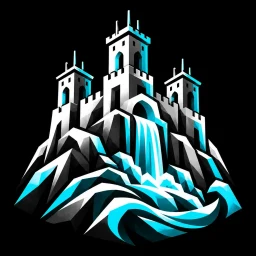
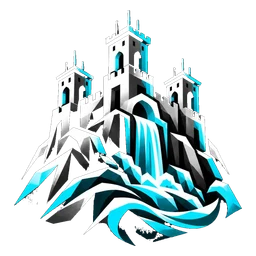
Tema chiaro di partenza (scuro se il telefono è scuro): emergenza, loghi dei castelli su tessera, benvenuto e icone sistemati per il chiaro
Claude-Session: https://claude.ai/code/session_01NPons2JwHMxEPqWQkYyk7h

diff --git a/app/globals.css b/app/globals.css
@@ -7,7 +7,7 @@
 
 @layer base {
   /* ——— Gettoni ———
-     Tema scuro predefinito (zinc + ottone); chiaro solo se il telefono è in modalità chiara. */
+     Tema chiaro di partenza; scuro (zinc + ottone) se il telefono è in modalità scura (scelta di Alex, 14/10/2026). */
   :root {
     --notte: #09090B;
     --azzurro: #5EB6E4;
@@ -23,24 +23,25 @@
     /* Ottone pieno, con appena un filo di luce in alto: niente effetto "metallo lucido" */
     --ottone-metallo: linear-gradient(180deg, #D4B26C 0%, #C9A45C 100%);
 
-    --sfondo: #09090B;          /* zinc-950 */
-    --superficie: #18181B;      /* zinc-900 */
-    --superficie-2: #27272A;    /* zinc-800 */
-    --testo: #FAFAFA;           /* zinc-50 */
-    --testo-2: #A1A1AA;         /* zinc-400 */
-    --linea: rgba(255, 255, 255, 0.08);
-    --accento: #D4B06A;
-    --accento-tenue: rgba(201, 164, 92, 0.14);
-    --su-accento: #09090B;      /* testo sopra l'ottone */
-    --pannello: #141416;        /* pannelli "strumento" */
+    --sfondo: #FAFAFA;        /* zinc-50 */
+    --superficie: #F4F4F5;    /* zinc-100 */
+    --superficie-2: #FFFFFF;
+    --testo: #09090B;
+    --testo-2: #52525B;       /* zinc-600 */
+    --linea: #E4E4E7;         /* zinc-200 */
+    --accento: #8A6A2E;
+    --accento-tenue: #F4EBD3;
+    --pannello: #27272A;      /* i pannelli strumento restano scuri, ma più morbidi del nero */
     --pannello-2: #3F3F46;
     --pannello-testo: #D4D4D8;
-    --segnale-tenue: rgba(232, 87, 58, 0.14);
-    --segnale-bordo: rgba(232, 87, 58, 0.4);
-    --vetro: rgba(9, 9, 11, 0.72);
-    --griglia: rgba(255, 255, 255, 0.035);
-    --ombra: 0 1px 2px rgba(0, 0, 0, 0.4);
-    --ok: #6FDC8C;
+    --segnale-tenue: #FDEDE8;
+    --segnale-bordo: #F3C2B6;
+    --vetro: rgba(250, 250, 250, 0.78);
+    --griglia: rgba(9, 9, 11, 0.04);
+    --ombra: 0 1px 2px rgba(9, 9, 11, 0.06);
+    --ok: #1E8E3E;
+    --su-accento: #09090B;      /* testo sopra l'ottone */
+    --tessera: #27272A;         /* fondo dei loghi dei castelli */
 
     --font: var(--font-geist), "Geist", system-ui, -apple-system, "Segoe UI", sans-serif;
     --mono: var(--font-geist-mono), "Geist Mono", ui-monospace, "SF Mono", Consolas, monospace;
@@ -52,36 +53,38 @@
     /* Computer: testata e pagine larghe (quelle che contengono .larga) */
     --larga: 1180px;
     --lato-largo: max(32px, calc((100vw - var(--larga)) / 2));
-    color-scheme: dark;
+    color-scheme: light;
   }
 
-  @media (prefers-color-scheme: light) {
+  @media (prefers-color-scheme: dark) {
     :root {
-      --sfondo: #FAFAFA;        /* zinc-50 */
-      --superficie: #F4F4F5;    /* zinc-100 */
-      --superficie-2: #FFFFFF;
-      --testo: #09090B;
-      --testo-2: #52525B;       /* zinc-600 */
-      --linea: #E4E4E7;         /* zinc-200 */
-      --accento: #8A6A2E;
-      --accento-tenue: #F4EBD3;
-      --pannello: #18181B;      /* i pannelli strumento restano scuri */
+      --sfondo: #09090B;          /* zinc-950 */
+      --superficie: #18181B;      /* zinc-900 */
+      --superficie-2: #27272A;    /* zinc-800 */
+      --testo: #FAFAFA;           /* zinc-50 */
+      --testo-2: #A1A1AA;         /* zinc-400 */
+      --linea: rgba(255, 255, 255, 0.08);
+      --accento: #D4B06A;
+      --accento-tenue: rgba(201, 164, 92, 0.14);
+      --su-accento: #09090B;      /* testo sopra l'ottone */
+      --pannello: #141416;        /* pannelli "strumento" */
       --pannello-2: #3F3F46;
       --pannello-testo: #D4D4D8;
-      --segnale-tenue: #FDEDE8;
-      --segnale-bordo: #F3C2B6;
-      --vetro: rgba(250, 250, 250, 0.78);
-      --griglia: rgba(9, 9, 11, 0.04);
-      --ombra: 0 1px 2px rgba(9, 9, 11, 0.06);
-      --ok: #1E8E3E;
-      color-scheme: light;
+      --segnale-tenue: rgba(232, 87, 58, 0.14);
+      --segnale-bordo: rgba(232, 87, 58, 0.4);
+      --vetro: rgba(9, 9, 11, 0.72);
+      --griglia: rgba(255, 255, 255, 0.035);
+      --ombra: 0 1px 2px rgba(0, 0, 0, 0.4);
+      --ok: #6FDC8C;
+      --tessera: transparent;
+      color-scheme: dark;
     }
   }
 
   * { -webkit-tap-highlight-color: transparent; }
   html, body { height: 100%; }
   body {
-    background: #000;
+    background: var(--sfondo);
     color: var(--testo);
     font-family: var(--font);
     font-size: 16px;
@@ -226,7 +229,7 @@
 /* ——— Classifica ——— */
 .icona-colore { display: inline-block; flex: none; vertical-align: middle; object-fit: contain; user-select: none; }
 /* Nel tema chiaro le parti bianche delle icone a colori hanno bisogno di un bordo leggero per staccarsi dal fondo */
-@media (prefers-color-scheme: light) { .icona-colore { filter: drop-shadow(0 0 0.5px rgb(9 9 11 / 0.45)) drop-shadow(0 1px 1.5px rgb(9 9 11 / 0.18)); } }
+@media not (prefers-color-scheme: dark) { .icona-colore { filter: drop-shadow(0 0 0.6px rgb(9 9 11 / 0.7)) drop-shadow(0 1px 2px rgb(9 9 11 / 0.22)); } }
 /* Barra in basso: la voce non attiva è più spenta, quella attiva a colori pieni */
 nav a:not([aria-current="page"]) > .icona-colore { opacity: 0.55; filter: grayscale(0.85); }
 .icona-propria { display: inline-block; position: relative; flex: none; vertical-align: middle; }
@@ -307,6 +310,10 @@ li:last-child > .riga { border-bottom: 0; }
 .emergenza a span { font-size: 14px; color: var(--pannello-testo); }
 .emergenza a:first-child { background: var(--segnale); }
 .emergenza a:first-child span { color: #FFE3DA; }
+@media not (prefers-color-scheme: dark) {
+  .emergenza a:not(:first-child) { background-color: var(--superficie); color: var(--testo); }
+  .emergenza a:not(:first-child) span { color: var(--testo-2); }
+}
 
 .servizio { display: grid; grid-template-columns: 44px minmax(0, 1fr) auto; gap: 12px; align-items: center; padding: 14px; border-radius: var(--r); background: var(--superficie); }
 .servizio h3 { font-size: 16px; font-weight: 600; letter-spacing: -0.01em; }

diff --git a/app/page.tsx b/app/page.tsx
@@ -105,15 +105,15 @@ export default async function Home() {
       {mattina ? null : <AvvisiOggi avvisi={avvisi} castelli={classifica} />}
 
       {/* Chi arriva la prima volta: il marchio, una frase, un'azione */}
-      <section className="per-nuovi flex flex-col gap-5 rounded-2xl bg-pannello p-5 text-zinc-50 lg:flex-row-reverse lg:items-center lg:justify-between lg:p-8">
-        {/* Il pannello è scuro anche col tema chiaro: il logo resta bianco */}
-        <Completo etichetta="739 San Marino" className="h-24 w-auto self-start text-zinc-50 lg:h-36 lg:self-center" />
+      <section className="per-nuovi flex flex-col gap-5 rounded-2xl bg-superficie p-5 text-testo lg:flex-row-reverse lg:items-center lg:justify-between lg:p-8">
+        {/* Il logo prende il colore del testo: bianco sul tema scuro, nero sul chiaro */}
+        <Completo etichetta="739 San Marino" className="h-24 w-auto self-start text-testo lg:h-36 lg:self-center" />
         <div className="flex flex-col">
           <h2 className="max-w-[15ch] text-[26px] font-semibold leading-[1.1] tracking-tight lg:max-w-none lg:text-[32px]">Tutto San Marino, in un&apos;app</h2>
-          <p className="mt-2 max-w-[30ch] text-[15px] leading-relaxed text-zinc-400 lg:max-w-[52ch]">Eventi, sport e servizi dei nove castelli, con la tua tessera digitale.</p>
+          <p className="mt-2 max-w-[30ch] text-[15px] leading-relaxed text-testo-2 lg:max-w-[52ch]">Eventi, sport e servizi dei nove castelli, con la tua tessera digitale.</p>
           <div className="mt-5 flex flex-wrap items-center gap-x-5 gap-y-3">
             <PrimaryButton href="/profile">Crea il tuo SMR ID</PrimaryButton>
-            <Link href="/guida" className="text-sm font-medium text-zinc-300 hover:text-white">Come funziona</Link>
+            <Link href="/guida" className="text-sm font-medium text-testo-2 hover:text-testo">Come funziona</Link>
           </div>
         </div>
       </section>

diff --git a/components/LogoCastello.tsx b/components/LogoCastello.tsx
@@ -1,5 +1,5 @@
 // Loghi dei castelli forniti da Alex (ottobre 2026, non sono gli stemmi ufficiali): file in public/castelli,
-// generati da docs/castelli con scripts/castelli.mjs. Il disegno è chiaro su nero, quindi sta sempre su fondo nero.
+// generati da docs/castelli con scripts/castelli.mjs. Il fondo nero è reso trasparente: nel tema chiaro stanno su una tessera grigio scuro (--tessera).
 const CON_LOGO = new Set(["acquaviva", "borgo-maggiore", "chiesanuova", "citta", "domagnano", "faetano", "fiorentino", "montegiardino", "serravalle"]);
 
 export const haLogo = (slug: string) => CON_LOGO.has(slug);
@@ -13,7 +13,7 @@ export function EmblemaCastello({ c, className = "size-9" }: { c: Castello; clas
   }
   return (
     // eslint-disable-next-line @next/next/no-img-element
-    <img src={`/castelli/${c.slug}-emblema.webp`} alt="" aria-hidden="true" width={192} height={192} loading="lazy" className={`shrink-0 rounded-xl bg-black object-contain ${className}`} />
+    <img src={`/castelli/${c.slug}-emblema.webp`} alt="" aria-hidden="true" width={192} height={192} loading="lazy" className={`shrink-0 rounded-xl bg-[var(--tessera)] object-contain ${className}`} />
   );
 }
 
@@ -22,6 +22,6 @@ export function LogoCastello({ c, className = "" }: { c: Castello; className?: s
   if (!CON_LOGO.has(c.slug)) return null;
   return (
     // eslint-disable-next-line @next/next/no-img-element
-    <img src={`/castelli/${c.slug}.webp`} alt={`Logo di ${c.nome}`} width={640} height={480} className={`aspect-[4/3] rounded-2xl bg-black object-contain ${className}`} />
+    <img src={`/castelli/${c.slug}.webp`} alt={`Logo di ${c.nome}`} width={640} height={480} className={`aspect-[4/3] rounded-2xl object-contain ${className}`} />
   );
 }

diff --git a/components/MappaTerritorio.tsx b/components/MappaTerritorio.tsx
@@ -45,7 +45,7 @@ export default function MappaTerritorio({ luoghi, focus }: { luoghi: Luogo[]; fo
       if (annullato || !box.current) return;
       // Il worker è copiato in public/ da scripts/worker-mappa.mjs
       ml.setWorkerUrl(new URL("/maplibre-gl-worker.mjs", window.location.origin).href);
-      const scuro = !window.matchMedia("(prefers-color-scheme: light)").matches;
+      const scuro = window.matchMedia("(prefers-color-scheme: dark)").matches;
       const iniziale = luoghi.find((l) => l.id === focus);
       const m = new ml.Map({
         container: box.current,

diff --git a/components/MappaPunto.tsx b/components/MappaPunto.tsx
@@ -19,7 +19,7 @@ export default function MappaPunto({ lat, lng, nome, categoria }: { lat: number;
       if (annullato || !box.current) return;
       // Il worker è copiato in public/ da scripts/worker-mappa.mjs
       ml.setWorkerUrl(new URL("/maplibre-gl-worker.mjs", window.location.origin).href);
-      const scuro = !window.matchMedia("(prefers-color-scheme: light)").matches;
+      const scuro = window.matchMedia("(prefers-color-scheme: dark)").matches;
       const m = new ml.Map({
         container: box.current,
         style: scuro ? STILE_SCURO : STILE_CHIARO,

diff --git a/components/MappaPunti.tsx b/components/MappaPunti.tsx
@@ -23,7 +23,7 @@ export default function MappaPunti({ punti, etichetta }: { punti: Punto[]; etich
     import("maplibre-gl").then((ml) => {
       if (annullato || !box.current) return;
       ml.setWorkerUrl(new URL("/maplibre-gl-worker.mjs", window.location.origin).href);
-      const scuro = !window.matchMedia("(prefers-color-scheme: light)").matches;
+      const scuro = window.matchMedia("(prefers-color-scheme: dark)").matches;
       const m = new ml.Map({
         container: box.current,
         style: scuro ? STILE_SCURO : STILE_CHIARO,

diff --git a/app/castelli/[slug]/page.tsx b/app/castelli/[slug]/page.tsx
@@ -28,7 +28,7 @@ export default async function Castello({ params }: Props) {
 
   return (
     <>
-      <section className={`copertina ${haLogo(c.slug) ? "bg-black" : "topo bg-[#141416]"}`}>
+      <section className={`copertina ${haLogo(c.slug) ? "bg-pannello" : "topo bg-pannello"}`}>
         <Link href="/castelli" className="indietro"><Icona nome="freccia" size={18} /> Castelli</Link>
         {haLogo(c.slug) ? (
           <>

diff --git a/CLAUDE.md b/CLAUDE.md
@@ -65,7 +65,7 @@ App del territorio di San Marino: eventi, mappa, castelli e servizi utili in un'
 | `app/opengraph-image.tsx`, `app/twitter-image.tsx` | Anteprima dei link a 739 (1200×630): marchio Completo bianco su zinc-950 e «Tutto San Marino, dalla vetta». Le anteprime per eventi, contenuti e speciali arrivano col passo 1.7 |
 | `components/Quota.tsx` | Altimetro: scala 0–739 m con le tacche dei livelli, usata nella pagina SMR ID |
 | `components/Castello.tsx` | Scelta del castello salvata in `localStorage` (`739-castello`) e griglia di scelta per i nuovi |
-| `components/LogoCastello.tsx`, `public/castelli/` | Loghi dei 9 castelli forniti da Alex il 14/10/2026 (seconda versione, senza scritta, dello stesso giorno) (non sono gli stemmi ufficiali, che per la legge 190/2011 sono riservati alle Giunte di Castello). Originali in `docs/castelli/<slug>.webp`, file per l'app generati con `node scripts/castelli.mjs`: sempre il logo intero, **mai ritagliato** (scelta di Alex), solo il nero in eccesso tolto; sempre su fondo nero. `LogoCastello` (640×480) in testa alla pagina del castello, con il nome sotto, `EmblemaCastello` (quadrato) in classifica, podio, scelta del castello; senza logo resta il punto colore |
+| `components/LogoCastello.tsx`, `public/castelli/` | Loghi dei 9 castelli forniti da Alex il 14/10/2026 (seconda versione, senza scritta, dello stesso giorno) (non sono gli stemmi ufficiali, che per la legge 190/2011 sono riservati alle Giunte di Castello). Originali in `docs/castelli/<slug>.webp`, file per l'app generati con `node scripts/castelli.mjs`: sempre il logo intero, **mai ritagliato** (scelta di Alex); lo script rende trasparente il nero del fondo collegato ai bordi (le parti scure del disegno restano). `LogoCastello` (640×480) in testa alla pagina del castello, con il nome sotto, `EmblemaCastello` (quadrato) in classifica, podio, scelta del castello; senza logo resta il punto colore |
 | `lib/data.ts` | Letture di eventi, luoghi e classifica, funzioni per date e orari (fuso `Europe/San_Marino`) |
 | `lib/servizi.ts` | Letture dei servizi (turni, linee e partenze, raccolta, parcheggi) |
 | `lib/orario.ts` | Prossime partenze e giorno della settimana a San Marino; senza dipendenze, gira anche nel browser |
@@ -126,7 +126,7 @@ Tabelle: `castelli` (i 9 castelli con colore), `profili`, `luoghi`, `eventi`, `c
 ## Identità visiva
 
 - Stile "fintech locale": base zinc profonda (`zinc-950`), accento **ottone** (scala `ottone-50…900` in `tailwind.config.ts`, `bg-metallo` per i bottoni primari: ottone pieno, senza effetto lucido), Segnale `#E8573A` solo per emergenze e avvisi, azzurro `#5EB6E4` solo per informazioni e mappa. Un colore per castello, usato solo in classifiche e badge.
-- Tema: scuro di default, chiaro solo se il telefono è in modalità chiara (scelta di Alex). I colori si usano tramite i ruoli (`bg-fondo`, `bg-superficie`, `text-testo`, `text-testo-2`, `border-linea`, `text-accento`, `bg-accento-tenue`… o le variabili CSS corrispondenti), mai esadecimali fissi nelle pagine.
+- Tema: segue il telefono; **di partenza chiaro**, scuro se il telefono è in modalità scura (scelta di Alex del 14/10/2026, dopo un confronto in `docs/confronto-tema/`). In `globals.css` i gettoni base sono quelli chiari e `@media (prefers-color-scheme: dark)` li cambia; le regole solo per il chiaro si scrivono con `@media not (prefers-color-scheme: dark)`. Nel chiaro: numeri di emergenza su schede chiare (il 112 resta Segnale), loghi dei castelli su una tessera grigio scuro (`--tessera`; nello scuro stanno direttamente sulla pagina, il loro fondo nero è trasparente), pannelli strumento zinc-800 invece del nero, icone 3D con un contorno leggero. Il benvenuto di Oggi usa i colori del tema. I colori si usano tramite i ruoli (`bg-fondo`, `bg-superficie`, `text-testo`, `text-testo-2`, `border-linea`, `text-accento`, `bg-accento-tenue`… o le variabili CSS corrispondenti), mai esadecimali fissi nelle pagine.
 - Ombre minime, vetro smerigliato (`backdrop-blur`) solo per barre e pannelli sopra mappe o immagini.
 - Caratteri: Geist (testi e titoli, titoli a peso 600, mai 700+) e Geist Mono (solo numeri: orari, metri, rating, conti alla rovescia, a peso 500). Caricati con `next/font` in `app/layout.tsx`.
 - Icone: solo Phosphor (`@phosphor-icons/react`), tramite `components/Icona.tsx` (nomi italiani). Stile scelto da Alex il 14/10/2026 su set di riferimento Flaticon ("Basic UI", "User Interface", "Essential UI"): icone **piene con angoli arrotondati**, cioè il peso `fill` di Phosphor, predefinito in `Icona`. Frecce, "+" e lente restano `bold` (piene diventerebbero triangoli o macchie). Nella barra in basso tutte le icone sono piene e la voce attiva si distingue per il colore. Mai disegnare icone SVG a mano; l'unico SVG fatto a mano è il logo. **Eccezione voluta da Alex (14/10/2026): icone disegnate per lui**, al posto di Phosphor nei loro nomi (`components/Icona.tsx`):
